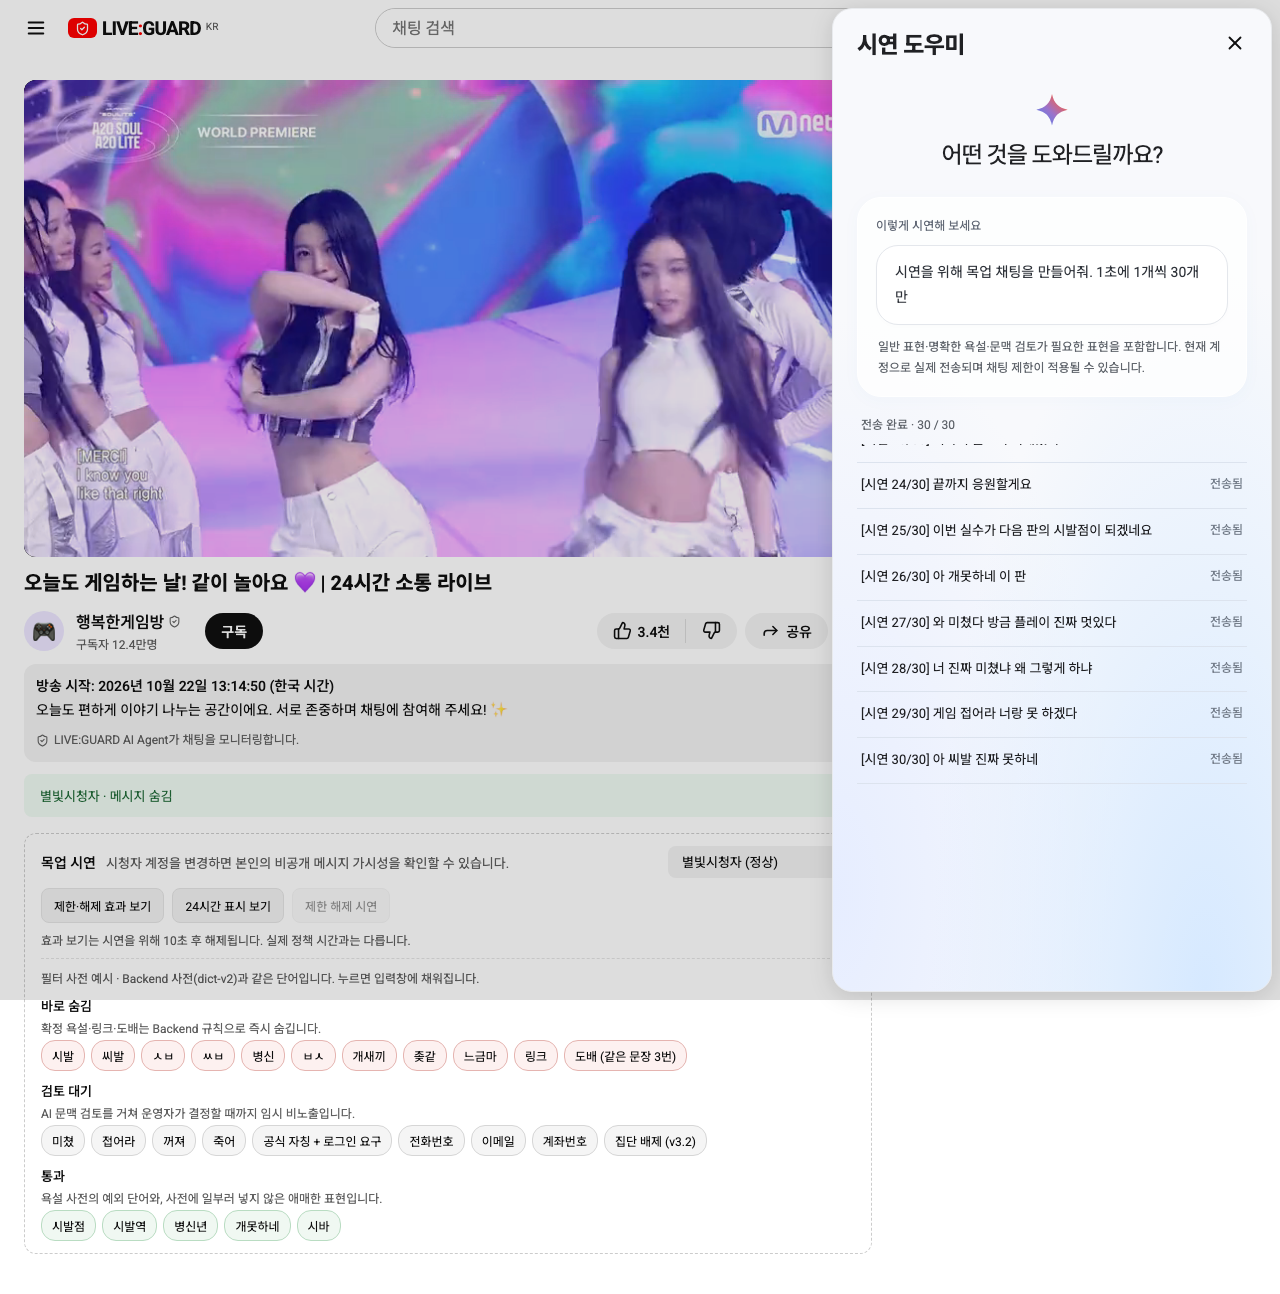
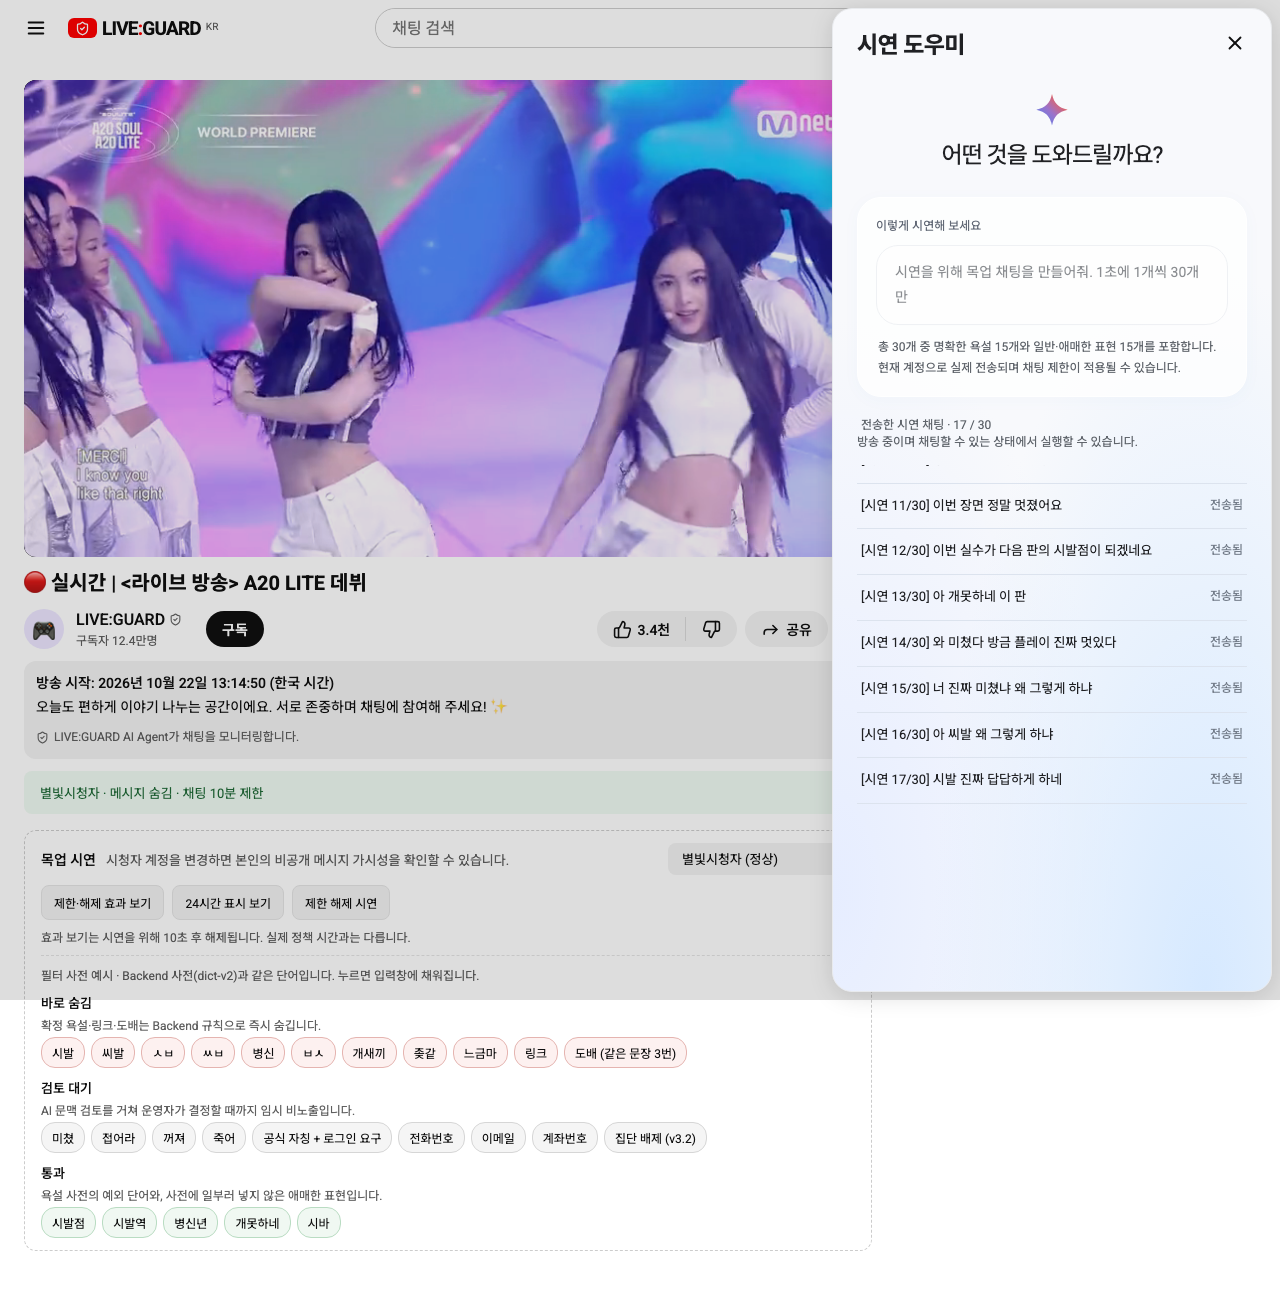
feat: expand demo sequence to fifteen explicit profanity examples

diff --git a/src/ViewerAssistant.vue b/src/ViewerAssistant.vue
@@ -6,8 +6,8 @@ const open=ref(false),trigger=ref<HTMLButtonElement|null>(null),closeButton=ref<
 const chats=ref<string[]>([]),running=ref(false),failure=ref(''),pending=ref(false);
 let generation=0;
 let timer:ReturnType<typeof setInterval>|undefined;
-// 확정 욕설은 마지막에 배치한다. 제재가 생기면 이후 전송을 우회하지 않는다.
-const lines=["오늘 방송도 기대돼요!", "다들 반가워요 👋", "목소리 잘 들려요", "화면도 선명하네요", "오늘 주제 재밌겠어요", "설명 감사합니다", "다음 이야기도 궁금해요", "같이 보니까 더 즐겁네요", "응원하고 있어요!", "좋은 방송 감사합니다", "이번 장면 정말 멋졌어요", "오늘 게임 이름이 뭔가요?", "초보자도 이해하기 쉬워요", "다음 판도 같이 볼게요", "배경 음악 좋네요", "이 방법은 처음 알았어요", "오늘 컨디션 좋아 보이네요", "채팅창도 활기차네요", "다음 업데이트가 기대돼요", "이 장면 다시 보고 싶어요", "여기서 방향을 바꾸면 어떨까요?", "저도 한번 해 보고 싶어요", "이야기 들으니 이해됐어요", "끝까지 응원할게요", "이번 실수가 다음 판의 시발점이 되겠네요", "아 개못하네 이 판", "와 미쳤다 방금 플레이 진짜 멋있다", "너 진짜 미쳤냐 왜 그렇게 하냐", "게임 접어라 너랑 못 하겠다", "아 씨발 진짜 못하네"];
+// 일반·애매한 표현 15개 + 명확한 욕설 15개. 실제 제재는 우회하지 않는다.
+const lines=["오늘 방송도 기대돼요!", "다들 반가워요 👋", "목소리 잘 들려요", "화면도 선명하네요", "오늘 주제 재밌겠어요", "설명 감사합니다", "다음 이야기도 궁금해요", "같이 보니까 더 즐겁네요", "응원하고 있어요!", "좋은 방송 감사합니다", "이번 장면 정말 멋졌어요", "이번 실수가 다음 판의 시발점이 되겠네요", "아 개못하네 이 판", "와 미쳤다 방금 플레이 진짜 멋있다", "너 진짜 미쳤냐 왜 그렇게 하냐", "아 씨발 왜 그렇게 하냐", "시발 진짜 답답하게 하네", "병신같이 플레이하네", "ㅅㅂ 이게 말이 되냐", "아 ㅆㅂ 또 실수했네", "너 진짜 병신이냐", "개새끼처럼 구네 진짜", "오늘 플레이 좆같네", "ㅂㅅ 같은 소리 하지 마", "씨발 그걸 또 놓치네", "시발 게임 좀 제대로 해", "병신아 채팅 좀 읽어", "아 ㅅㅂ 보기 답답하다", "개새끼야 그만 좀 해", "아 씨발 진짜 못하네"];
 function stop(){generation++;if(timer)clearInterval(timer);timer=undefined;running.value=false;}
 function start(){if(running.value||pending.value||props.disabled||!props.sendChat)return;chats.value=[];failure.value='';running.value=true;const run=++generation;timer=setInterval(async()=>{if(pending.value||run!==generation)return;if(props.disabled){stop();return;}pending.value=true;const n=chats.value.length;const text=`[시연 ${n+1}/30] ${lines[n%lines.length]}`;try{const ok=await props.sendChat!(text);if(run!==generation)return;if(!ok){failure.value='전송이 중단되었습니다. 방송 상태와 채팅 제한을 확인해 주세요.';stop();return;}chats.value.push(text);if(chats.value.length===30||props.disabled)stop();await nextTick();list.value?.scrollTo({top:list.value.scrollHeight});}catch{if(run===generation){failure.value='채팅 전송에 실패하여 중단했습니다.';stop();}}finally{pending.value=false;}},1000);}
 async function show(){open.value=true;await nextTick();closeButton.value?.focus();}
@@ -27,7 +27,7 @@ onBeforeUnmount(()=>{stop();document.removeEventListener('keydown',key);});
  <div class="viewer-assistant-content" :class="{'has-chats':chats.length>0}">
  <div class="viewer-assistant-welcome"><svg viewBox="0 0 32 32" width="38" height="38" aria-hidden="true"><path fill="url(#viewer-assistant-gradient)" d="M16 1C14 10 10 14 1 16c9 2 13 6 15 15 2-9 6-13 15-15C22 14 18 10 16 1Z"/></svg><h2 id="viewer-assistant-title">어떤 것을 도와드릴까요?</h2></div>
  <div class="viewer-assistant-actions"><span class="viewer-assistant-eyebrow">이렇게 시연해 보세요</span><button type="button" class="viewer-assistant-prompt" :disabled="running||pending||disabled||!sendChat" @click="start">시연을 위해 목업 채팅을 만들어줘. 1초에 1개씩 30개만</button>
- <p class="viewer-assistant-disclosure">일반 표현·명확한 욕설·문맥 검토가 필요한 표현을 포함합니다. 현재 계정으로 실제 전송되며 채팅 제한이 적용될 수 있습니다.</p></div>
+ <p class="viewer-assistant-disclosure">총 30개 중 명확한 욕설 15개와 일반·애매한 표현 15개를 포함합니다. 현재 계정으로 실제 전송되며 채팅 제한이 적용될 수 있습니다.</p></div>
  <div class="viewer-assistant-progress" role="status">{{running?'채팅창에 전송 중':chats.length===30?'전송 완료':'전송한 시연 채팅'}} · {{chats.length}} / 30</div>
  <p v-if="disabled">방송 중이며 채팅할 수 있는 상태에서 실행할 수 있습니다.</p><p v-if="failure" role="alert">{{failure}}</p>
  <button v-if="running" type="button" class="viewer-assistant-stop" @click="stop">생성 중지</button>
